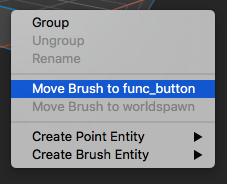
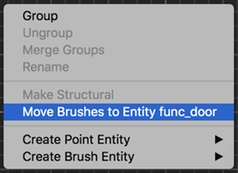
2620: Update manual for tags and new keyboard shortcuts.

diff --git a/app/resources/documentation/manual/shortcuts.js b/app/resources/documentation/manual/shortcuts.js
@@ -190,7 +190,6 @@ keys["windows"][392] = "Numpad /";
 keys["windows"][393] = "Left Windows Key";
 keys["windows"][394] = "Right Windows Key";
 keys["windows"][395] = "Windows Menu Key";
-keys["windows"][396] = "Ctrl";
 keys["windows"]["+"] = "+";
 keys["mac"][8] = "&#x232B;";
 keys["mac"][9] = "&#x21E5;";
@@ -383,7 +382,6 @@ keys["mac"][392] = "Numpad /";
 keys["mac"][393] = "Left Windows Key";
 keys["mac"][394] = "Right Windows Key";
 keys["mac"][395] = "Windows Menu Key";
-keys["mac"][396] = "&#x2303;";
 keys["mac"]["+"] = "";
 keys["linux"][8] = "Backspace";
 keys["linux"][9] = "Tab";
@@ -576,7 +574,6 @@ keys["linux"][392] = "Numpad /";
 keys["linux"][393] = "Left Windows Key";
 keys["linux"][394] = "Right Windows Key";
 keys["linux"][395] = "Windows Menu Key";
-keys["linux"][396] = "Ctrl";
 keys["linux"]["+"] = "+";
 
 var menu = {};
@@ -594,9 +591,6 @@ menu["Menu/File/Unload Portal File"] = { path: ["File", "Unload Portal File"], s
 menu["Menu/File/Reload Texture Collections"] = { path: ["File", "Reload Texture Collections"], shortcut: { key:344, modifiers: [] } };
 menu["Menu/File/Reload Entity Definitions"] = { path: ["File", "Reload Entity Definitions"], shortcut: { key:345, modifiers: [] } };
 menu["Menu/File/Close"] = { path: ["File", "Close"], shortcut: { key:87, modifiers: [308] } };
-menu["Menu/File/About TrenchBroom"] = { path: ["File", "About TrenchBroom"], shortcut: { key:0, modifiers: [] } };
-menu["Menu/File/Preferences"] = { path: ["File", "Preferences..."], shortcut: { key:44, modifiers: [308] } };
-menu["Menu/File/Exit"] = { path: ["File", "Exit"], shortcut: { key:0, modifiers: [] } };
 menu["Menu/Edit/Undo"] = { path: ["Edit", "Undo"], shortcut: { key:90, modifiers: [308] } };
 menu["Menu/Edit/Redo"] = { path: ["Edit", "Redo"], shortcut: { key:90, modifiers: [306, 308] } };
 menu["Menu/Edit/Repeat"] = { path: ["Edit", "Repeat"], shortcut: { key:82, modifiers: [308] } };
@@ -606,7 +600,7 @@ menu["Menu/Edit/Copy"] = { path: ["Edit", "Copy"], shortcut: { key:67, modifiers
 menu["Menu/Edit/Paste"] = { path: ["Edit", "Paste"], shortcut: { key:86, modifiers: [308] } };
 menu["Menu/Edit/Paste at Original Position"] = { path: ["Edit", "Paste at Original Position"], shortcut: { key:86, modifiers: [307, 308] } };
 menu["Menu/Edit/Duplicate"] = { path: ["Edit", "Duplicate"], shortcut: { key:68, modifiers: [308] } };
-menu["Menu/Edit/Delete"] = { path: ["Edit", "Delete"], shortcut: { key:8, modifiers: [] } };
+menu["Menu/Edit/Delete"] = { path: ["Edit", "Delete"], shortcut: { key:127, modifiers: [] } };
 menu["Menu/Edit/Select All"] = { path: ["Edit", "Select All"], shortcut: { key:65, modifiers: [308] } };
 menu["Menu/Edit/Select Siblings"] = { path: ["Edit", "Select Siblings"], shortcut: { key:66, modifiers: [308] } };
 menu["Menu/Edit/Select Touching"] = { path: ["Edit", "Select Touching"], shortcut: { key:84, modifiers: [308] } };
@@ -629,7 +623,7 @@ menu["Menu/Edit/CSG/Subtract"] = { path: ["Edit", "CSG", "Subtract"], shortcut: 
 menu["Menu/Edit/CSG/Hollow"] = { path: ["Edit", "CSG", "Hollow"], shortcut: { key:75, modifiers: [307, 308] } };
 menu["Menu/Edit/CSG/Intersect"] = { path: ["Edit", "CSG", "Intersect"], shortcut: { key:76, modifiers: [308] } };
 menu["Menu/Edit/Snap Vertices to Integer"] = { path: ["Edit", "Snap Vertices to Integer"], shortcut: { key:86, modifiers: [306, 308] } };
-menu["Menu/Edit/Snap Vertices to Grid"] = { path: ["Edit", "Snap Vertices to Grid"], shortcut: { key:86, modifiers: [307, 306, 308] } };
+menu["Menu/Edit/Snap Vertices to Grid"] = { path: ["Edit", "Snap Vertices to Grid"], shortcut: { key:86, modifiers: [306, 307, 308] } };
 menu["Menu/Edit/Texture Lock"] = { path: ["Edit", "Texture Lock"], shortcut: { key:0, modifiers: [] } };
 menu["Menu/Edit/UV Lock"] = { path: ["Edit", "UV Lock"], shortcut: { key:85, modifiers: [] } };
 menu["Menu/Edit/Replace Texture"] = { path: ["Edit", "Replace Texture..."], shortcut: { key:0, modifiers: [] } };
@@ -662,6 +656,7 @@ menu["Menu/View/Switch to Face Inspector"] = { path: ["View", "Switch to Face In
 menu["Menu/View/Toggle Info Panel"] = { path: ["View", "Toggle Info Panel"], shortcut: { key:52, modifiers: [308] } };
 menu["Menu/View/Toggle Inspector"] = { path: ["View", "Toggle Inspector"], shortcut: { key:53, modifiers: [308] } };
 menu["Menu/View/Maximize Current View"] = { path: ["View", "Maximize Current View"], shortcut: { key:32, modifiers: [308] } };
+menu["Menu/View/Preferences"] = { path: ["View", "Preferences..."], shortcut: { key:0, modifiers: [] } };
 menu["Menu/Run/Compile"] = { path: ["Run", "Compile..."], shortcut: { key:0, modifiers: [] } };
 menu["Menu/Run/Launch"] = { path: ["Run", "Launch..."], shortcut: { key:0, modifiers: [] } };
 menu["Menu/Debug/Print Vertices"] = { path: ["Debug", "Print Vertices"], shortcut: { key:0, modifiers: [] } };
@@ -673,7 +668,8 @@ menu["Menu/Debug/Crash"] = { path: ["Debug", "Crash..."], shortcut: { key:0, mod
 menu["Menu/Debug/Throw Exception During Command"] = { path: ["Debug", "Throw Exception During Command"], shortcut: { key:0, modifiers: [] } };
 menu["Menu/Debug/Show Crash Report Dialog"] = { path: ["Debug", "Show Crash Report Dialog"], shortcut: { key:0, modifiers: [] } };
 menu["Menu/Debug/Set Window Size"] = { path: ["Debug", "Set Window Size..."], shortcut: { key:0, modifiers: [] } };
-menu["Menu/Help/TrenchBroom Manual"] = { path: ["Help", "TrenchBroom Manual"], shortcut: { key:0, modifiers: [] } };
+menu["Menu/Help/TrenchBroom Manual"] = { path: ["Help", "TrenchBroom Manual"], shortcut: { key:340, modifiers: [] } };
+menu["Menu/Help/About TrenchBroom"] = { path: ["Help", "About TrenchBroom"], shortcut: { key:0, modifiers: [] } };
 var actions = {};
 actions["Controls/Map view/Create brush"] = { key:13, modifiers: [] };
 actions["Controls/Map view/Toggle clip side"] = { key:13, modifiers: [308] };
@@ -732,6 +728,24 @@ actions["Controls/Map view/Cycle map view"] = { key:32, modifiers: [] };
 actions["Controls/Map view/Reset camera zoom"] = { key:27, modifiers: [306] };
 actions["Controls/Map view/Cancel"] = { key:27, modifiers: [] };
 actions["Controls/Map view/Deactivate current tool"] = { key:27, modifiers: [308] };
+actions["Controls/Map view/Make structural"] = { key:83, modifiers: [307] };
+actions["Controls/Map view/View Filter > Toggle show entity classnames"] = { key:0, modifiers: [] };
+actions["Controls/Map view/View Filter > Toggle show group bounds"] = { key:0, modifiers: [] };
+actions["Controls/Map view/View Filter > Toggle show brush entity bounds"] = { key:0, modifiers: [] };
+actions["Controls/Map view/View Filter > Toggle show point entity bounds"] = { key:0, modifiers: [] };
+actions["Controls/Map view/View Filter > Toggle show point entities"] = { key:0, modifiers: [] };
+actions["Controls/Map view/View Filter > Toggle show point entity models"] = { key:0, modifiers: [] };
+actions["Controls/Map view/View Filter > Toggle show brushes"] = { key:0, modifiers: [] };
+actions["Controls/Map view/View Filter > Show textures"] = { key:0, modifiers: [] };
+actions["Controls/Map view/View Filter > Hide textures"] = { key:0, modifiers: [] };
+actions["Controls/Map view/View Filter > Hide faces"] = { key:0, modifiers: [] };
+actions["Controls/Map view/View Filter > Shade faces"] = { key:0, modifiers: [] };
+actions["Controls/Map view/View Filter > Use fog"] = { key:0, modifiers: [] };
+actions["Controls/Map view/View Filter > Show edges"] = { key:0, modifiers: [] };
+actions["Controls/Map view/View Filter > Show all entity links"] = { key:0, modifiers: [] };
+actions["Controls/Map view/View Filter > Show transitively selected entity links"] = { key:0, modifiers: [] };
+actions["Controls/Map view/View Filter > Show directly selected entity links"] = { key:0, modifiers: [] };
+actions["Controls/Map view/View Filter > Hide entity links"] = { key:0, modifiers: [] };
 actions["Controls/Camera/Move forward"] = { key:87, modifiers: [] };
 actions["Controls/Camera/Move backward"] = { key:83, modifiers: [] };
 actions["Controls/Camera/Move left"] = { key:65, modifiers: [] };

diff --git a/app/resources/documentation/manual/index.md b/app/resources/documentation/manual/index.md
@@ -16,13 +16,14 @@ TrenchBroom is a level editing program for brush-based game engines such as Quak
 	- Issue browser with automatic quick fixes
 	- Run external compilers and launch game engines
 	- Point file support
+	- Portal file support
 	- Automatic backups
 	- Free and cross platform
 * **Brush Editing**
 	- Robust vertex editing with edge and face splitting and manipulating multiple vertices together
 	- Clipping tool with two and three points
 	- Scale and shear tools
-	- CSG operations: merge, subtract, intersect, hollow
+	- CSG operations: merge, subtract, hollow
 	- UV view for easy texture manipulations
 	- Precise texture lock for all brush editing operations
 	- Multiple texture collections
@@ -31,7 +32,7 @@ TrenchBroom is a level editing program for brush-based game engines such as Quak
 	- Support for FGD, ENT and DEF files for entity definitions
 	- Mod support
 	- Entity link visualization
-	- Displays 3D models in the editor
+	- Displays 3D models in the editor (supports mdl, md2, md3, bsp, dkm)
 	- Smart entity property editors
 
 ## About This Document
@@ -138,7 +139,7 @@ The sizes of the editing area, the inspector and the info bar can be changed by 
 
 The editing area is divided in two sections: The context sensitive info bar at the top and the viewports below. The info bar contains different controls depending on which tool is currently activated. You can switch between tools such as the rotate tool and the vertex tool using the toolbar buttons, the menu or with the respective keyboard shortcuts. The context sensitive controls allow you to perform certain actions that are relevant to the current tool such as setting the rotation center when in the rotate tool or moving objects by a given delta when in the default move tool. Additonally, there is a button labeled "View" on the right of the info bar. Clicking on this button unfolds a dropdown containing controls to [filter out](#filtering_rendering_options) certain objects in the viewports or to change how the viewport [renders its contents](#filtering_rendering_options).
 
-![The info bar with view dropdown (Windows 7)](images/ViewDropdown.png)
+![The info bar with view dropdown (Windows 10)](images/ViewDropdown.png)
 
 There are two types of viewports: 3D viewports and 2D viewports. TrenchBroom gives you some control over the layout of the viewports: You can have one, two, three, or four viewports. See section [View Layout and Rendering](#view_layout_and_rendering) to find out how to change the layout of the viewports. If you have fewer than four viewports, then one of the viewports can be cycled by hitting #action(Controls/Map view/Cycle map view). Which of the viewports can be cycled and the order of cycling the viewports is given in the following table:
 
@@ -406,11 +407,11 @@ It is not possible to modify or remove points after they have been placed, excep
 
 ### Creating Entities {#creating_entities}
 
-There are two types of entities: point entities and brush entities, and it depends on the type how an entity is created. In the following sections, we present two ways of creating point entities and one way to create brush entities.
+There are two types of entities: point entities and brush entities, and it depends on the type how an entity is created. In the following sections, we present three ways of creating point entities and two ways to create brush entities.
 
 #### Point Entities
 
-There are two ways of creating new point entities. Firstly, you can drop new entities in the 3D and 2D viewports by using the context menu. To open the context menu, right click into the viewport. To create a point entity such as a pickup weapon or a monster, open the "Create Point Entity" sub menu and select the correct entity definition from the sub menus.
+There are three ways of creating new point entities. Firstly, you can drop new entities in the 3D and 2D viewports by using the context menu. To open the context menu, right click into the viewport. To create a point entity such as a pickup weapon or a monster, open the "Create Point Entity" sub menu and select the correct entity definition from the sub menus.
 
 ![Dropping an entity with the context menu (Mac OS X)](images/CreateEntityContextMenu.png)
 
@@ -422,9 +423,13 @@ The leftmost dropdown list allows you to change the sort order. Entities can be 
 
 To create a new entity, simply drag it out of the browser and onto the 3D or a 2D viewport. If you drag it onto the 3D viewport, the entity will be positioned on the brush under the mouse, with its bounding box snapped to the grid. If you drag the entity onto a 2D viewport, its position is determined by the far end of the most recently selected object.
 
+Finally, you can create specific entities by assigning a keyboard shorcut in the [preferences](##keyboard_shortcuts). This is useful for entities that are used very often such as lights. The entity will be created under the mouse cursor; its position will be computed in the same way as if the context menu was used.
+
 #### Brush Entities
 
-![Moving brushes to brush entities](images/MoveBrushesToEntity.png) Creating brush entities is also done using the context menu. Select a couple of brushes and right click on them, then select the desired brush entity from the menu. To move brushes from one brush entity to another, select the brushes you wish to move and right click on a brush belonging to the brush entity to which you want to move the brushes, and select "Move brushes to ENTITY", where "ENTITY" is the name of the target brush entity, for example "func_button" in the picture on the left. If the brush entity containing the brushes to be moved becomes empty, it will be automatically deleted. To move brushes from a brush entity back into the world, select the brushes and right click on a world brush or on the void and select "Move brushes to World".
+![Moving brushes to brush entities](images/MoveBrushesToEntity.png) Creating brush entities is also done using the context menu. Select a couple of brushes and right click on them, then select the desired brush entity from the menu. To move brushes from one brush entity to another, select the brushes you wish to move and right click on a brush belonging to the brush entity to which you want to move the brushes, and select "Move brushes to Entity ENTITY", where "ENTITY" is the name of the target brush entity, for example "func_door" in the picture on the left. If the brush entity containing the brushes to be moved becomes empty, it will be automatically deleted. To move brushes from a brush entity back into the world, select the brushes, right click and select "Make Structural".
+
+Additionally, you can also assign a keyboard shorcut to create a specific brush entity in the [preferences](##keyboard_shortcuts).
 
 Often, it is much quicker to create new objects by duplicating existing ones. Objects can be duplicated using dedicated functions in TrenchBroom, or just by copying and pasting them.
 
@@ -789,6 +794,32 @@ In each of the CSG operations, new brushes are created, and TrenchBroom has to a
 
 In the example above, a brush is subtracted from another brush to form an archway. The subtrahend has a blue brick texture and the minuend has a dark metal texture. After the subtraction, those faces of the result that line up with the faces of the subtrahend have also been assigned the blue brick texture, while those faces that line up with the faces of the minuend brush have been assigned the dark metal texture. Some of the faces of the result brushes are invisible because they are shared by other brushes - these faces have been assigned the current texture because no face of the subtrahend or the minuend lines up with them.
 
+## Special Brush and Face Types {#special_brush_face_types}
+
+Most Quake based games have certain special types of brushes and faces. An example for a special brush type is a *trigger brush* that activates some game logic. A special face type may be a face textured with a special _clip_ texture that is invisible, but blocks the player from passing it. In Quake 3, _caulk_ faces are often used to tell the bsp compiler to skip certain faces because they are invisible.
+
+TrenchBroom is aware of these special brush and face types as long as they are configured in the [game configuration file](#game_configuration_files) for a game. Special brush or face types can be detected by TrenchBroom in the following ways:
+
+* **Brush Types**
+	- **Entity Classname Pattern** If a brush is contained in an entity whose classname matches a certain pattern, it will receive the special brush type (example: trigger brushes).
+* **Face Types**
+	- **Texture Name Pattern** If a brush face has a texture whose name matches a certain pattern, it will receive the special face type (example: clip textures).
+	- **Content Flags** If a brush has one of several content flags, it will receive the special face type.
+	- **Surface Flags** If a brush has one of several surface flags, it will receive the special face type.
+	- **Surface Parm** If a brush has a specific surface parameter, it will receive the special face type.
+
+TrenchBroom allows you to filter for special brush and face types in the [filtering and rendering options](#filtering_rendering_options). Furthermore, you can assign a keyboard shortcut to set or unset a special brush type (if supported). The following special brush and face types can be set / unset in this way:
+
+* **Brush Types**
+	- **Entity Classname Pattern** Can be set and unset. Setting a brush type wraps the selected brushes in a newly created entity with a classname that matches the pattern. If more than one classnames in the currently loaded entity definitions matches the pattern, a dropdown menu is shown to allow you to choose one of the options. Unsetting a brush type simply moves the selected brushes into the world.
+* **Face Types**
+	- **Texture Name Pattern** Can be set only. Setting a face type sets a texture whose name matches the pattern on the selected faces. If more than one texture in the currently loaded texture collections matches the pattern, a dropdown menu is shown to allow you to choose one of the options.
+	- **Content Flags** Can be set and unset. Setting a face type sets one of the configured content flags on the selected faces. If more than one content flag was configured, a dropdown menu is shown to allow you to choose one of the options. Unsetting clears all of the configured content flags.
+	- **Surface Flags** Can be set and unset. Setting a face type sets one of the configured surface flags on the selected faces. If more than one surface flag was configured, a dropdown menu is shown to allow you to choose one of the options. Unsetting clears all of the configured surface flags.
+	- **Surface Parm** Can neither be set nor unset.
+
+Finally, every special brush or face type that supports unsetting can be cleared using the *Make Structural* command #action(Controls/Map view/Make structural).
+
 ## Working with Textures {#working_with_textures}
 
 There are two aspects to working with textures in a level editor. [Texture management](#texture_management) and texture application. This section deals with the latter, so you will learn different ways to apply textures to brush faces and to manipulate their alignment to the faces. But before we dive into that, we have to cover three general topics: First, we present the texture browser, then we explain how TrenchBroom assigns textures to newly created brush faces, and finally we discuss different texture projection modes in TrenchBroom.
@@ -957,9 +988,17 @@ If you are working on large maps, it can become cumbersome to manage the objects
 
 To filter out certain types of objects, you can open the view dropdown window by clicking on the "View" button at the right of the info bar above the editing area.
 
-![The info bar with view dropdown (Windows 7)](images/ViewDropdown.png)
+![The info bar with view dropdown (Windows 10)](images/ViewDropdown.png)
 
-In the left of the view dropdown, there is a list of checkboxes that allows you to hide all entities that share the same entity definition (i.e., the same classname). Uncheck an entity definition (or a group thereof) to hide the respective entities. For quickly hiding and showing all entities, you can click on the two buttons below the list. The right half of the view dropdown contains some options for the renderer, most of which are self explanatory.
+In the left of the view dropdown, there is a list of checkboxes that allows you to hide all entities that share the same entity definition (i.e., the same classname). Uncheck an entity definition (or a group thereof) to hide the respective entities. For quickly hiding and showing all entities, you can click on the two buttons below the list. 
+
+The right half of the view dropdown has several options, partitioned into three groups.
+
+* **Entities** - here you can configure how entities are rendered in the editor.
+* **Brushes** - allows you to toggle on or off certain special brush or face types. These types are game specific and are read from the [game configuration file](#game_configuration_files).
+* **Renderer** - various options on how other objects are rendered.
+
+Note that it is possible to add keyboard shortcuts to toggle every option in the view dropdown in the [preferences](#keyboard_shortcuts).
 
 ## Hiding and Isolation
 
@@ -1046,11 +1085,21 @@ Mouse Pan 	Sensitivity and axis inversion for mouse panning (middle click and dr
 Mouse Move 	Sensitivity and settings for moving the camera with the mouse. If you use a tablet, the setting "Alt+MMB drag to move camera" might make navigation easier for you.
 Move Keys 	Keyboard shortcuts for moving around in the map, with a separate slider to control the speed.
 
-## Keyboard Shortcuts
+## Keyboard Shortcuts {#keyboard_shortcuts}
 
 ![Keyboard Configuration Dialog (Linux XFCE)](images/KeyboardPreferences.png)
 
 In this preference pane, you can change the keybaord shortcuts used in TrenchBroom. The table lists all available shortcuts, their context, and the description. To change a keyboard shortcut, click twice (do not double click) on the shortcut in the first column of the table and enter the new shortcut. The context determines when this shortcut is available, for example, the PgDn key triggers different actions depending on whether the rotate tool is active or not. Finally, the desription column explains what a shortcut does in a particular context. Sometimes a shortcut triggers different actions depending on whether the viewport in which it was used is a 3D or a 2D viewport. For example, the PgDn key can move objects backward (away from the camera) in a 2D viewport or down along the Z axis in the 3D viewport. These different actions are listed together in the description column, but they are separated with a semicolon.
+
+If you open the preference dialog when a map is currently opened, the list of shortcuts will contain additional entries depending on the loaded entity configuration file and the game configuration file. For each entity and special brush or face types, the following keyboard shortcuts are available.
+
+* **Entity**
+	- `View Filter > Toggle CLASSNAME visible` to toggle entities with this classname visible and invisible ([more info](filtering_rendering_options))
+	- `Create CLASSNAME` to create entities with this classname ([more info](#creating_entities))
+* **Brush / Face Type**
+	- `View Filter > Toggle TYPE visible` to toggle brushes or faces with this type visible and invisible ([more info](filtering_rendering_options))
+	- `Turn selection into TYPE` to set this type to the selected brushes or faces
+	- `Turn selection into non-TYPE` to unset this type from the selected brushes or faces
 
 Note that if you assign a keyboard shortcut to different actions in the same context, the shortcut creates a conflict and you cannot exit the preference pane or close the dialog until you resolve the conflict. Conflicting shortcuts are highlighted in red.
 
@@ -1151,7 +1200,7 @@ Once the compilation is done, you can launch a game engine and check out your ma
 
 ## Launching Game Engines {#launching_game_engines}
 
-Before you can launch a game engine in TrenchBroom, you have to make your engine(s) known to TrenchBroom. You can do this by bringing up the game engine profile dialog either from the launch dialog (see below) or from the [game configuration]({#game_configuration).
+Before you can launch a game engine in TrenchBroom, you have to make your engine(s) known to TrenchBroom. You can do this by bringing up the game engine profile dialog either from the launch dialog (see below) or from the [game configuration](#game_configuration).
 
 There are two ways to launch a game engine from within TrenchBroom. Either click the 'Launch' button in the compilation dialog or choose #menu(Menu/Run/Launch). This brings up the launch dialog shown in the following screenshot.
 
@@ -1622,7 +1671,7 @@ The case operator allows for conditional evaluation of expressions. This is usal
 
      Case = SimpleTerm "->" Expression
 
-In a case expression, the part before the `->` operator is called the *premise* and the part after it is called the *conclusion*. The case operator is evaluated as follows:
+In a case expression, the part before the `->` operator is called the _premise_ and the part after it is called the _conclusion_. The case operator is evaluated as follows:
 
 - If the premise evaluates to a value `r` that is convertible to `boolean`:
     - If `r` converts to `true`: 
@@ -1899,7 +1948,7 @@ An example from an FGD file might look as follows.
 	    ]
 	]
 
-To improve compatibility to other editors, the model definition can also be named *studio* or *studioprop* in FGD files.
+To improve compatibility to other editors, the model definition can also be named _studio_ or _studioprop_ in FGD files.
 
 In an ENT file, the same model specification might look like this.
 
@@ -1915,7 +1964,7 @@ TrenchBroom can load point files (PTS) generated by QBSP, which help locate leak
 
 Portal files (PRT), also generated by QBSP, let you visualize the portals between BSP leafs. They can be loaded with #menu(Menu/File/Load Portal File) and are rendered as translucent red polygons.
 
-## Game Configuration Files
+## Game Configuration Files {#game_configuration_files}
 
 TrenchBroom uses game configuration files to provide support for different games. Some game configuration files come with the editor. They are installed at `<ResourcePath>/games`, where the value of `<ResourcePath>` depends on the platform according to the following table.
 
@@ -2024,7 +2073,30 @@ The game configuration is an [expression language](#expression_language) map wit
 	    }
     }
 
+#### Versions
 
+The game configuration files are versioned. Whenever a breaking change to the game configuration format is introduced, the version number will increase and TrenchBroom will reject the old format with an error message. The following sections will explain how to migrate a game configuration file for each version change.
+
+**Migrating to Version 3** 
+
+Version 3 deprecates the `brushtypes` key in favor of the `tags` key, but the contents are very similar. The value of the `brushtypes` key is an array of type matchers. The following brush type matchers are supported in version 2:
+
+Match        Description
+-----        -----------
+texture      Match against a texture name, must match all brush faces
+contentflag  Match against face content flags (used by Quake 2, Quake 3)
+surfaceflag  Match against face surface flags (used by Quake 2, Quake 3)
+surfaceparm  Match against shader surface parameters (used by Quake 3)
+classname    Match against a brush entity class name
+
+In version 3, the `tags` key is a map with two possible keys: `brush` and `brushface`. For both keys, the value is again an array of type matchers. The `brush` key supports the `classname` matcher and the `brushface` key supports the `texture`, `contentflag`, `surfaceflag` and `surfaceparm` matchers. To migrate the `brushtypes` key to the `tags` key, you create the basic structure as follows:
+
+    "tags": {
+        "brush": [ ... ],
+        "brushface": [ ... ]
+    }
+
+Then you need to copy your `classname` matchers into the array value of the `brush` key and all other matchers into the array of the `brushface` key. Finally, you can delete your `brushtypes` key. See the [tags](#game_configuration_files_tags) section for more information.
 
 #### File Formats
 
@@ -2032,12 +2104,12 @@ The file format is specified by an array of maps under the key `fileformats`. Th
 
 Format      	 Description
 ------      	 -----------
-Standard     	Standard Quake map file
-Valve       	Valve map file (like Standard, but with different texture info per face)
-Quake2       	Quake 2 map file
-Quake3       	Quake 3 map file (with brush primitives)
-Quake3 (legacy) Quake 3 map file (without brush primitives)
-Hexen2       	Hexen 2 map file (like Quake, but with an additional, but unused value per face)
+Standard     	 Standard Quake map file
+Valve       	 Valve map file (like Standard, but with different texture info per face)
+Quake2       	 Quake 2 map file
+Quake3       	 Quake 3 map file (with brush primitives)
+Quake3 (legacy)  Quake 3 map file (without brush primitives)
+Hexen2       	 Hexen 2 map file (like Quake, but with an additional, but unused value per face)
 
 Each entry of the array must have the following structure:
 
@@ -2132,12 +2204,13 @@ Format       Description
 ------       -----------
 mdl          Quake model format
 md2          Quake 2 model format
+md3          Quake 3 model format
 bsp        	 Compiled brush model, used by Quake and Hexen 2
 dkm          Daikatana model format
 
-#### Tags
+#### Tags {#game_configuration_files_tags}
 
-TrenchBroom can recognize certain special objects or special brush faces. An example would be clip faces or trigger brushes. But since the details can be game dependent, these special objects and faces are defined in the game configuration. For greater flexibility and future enhancements, a general tagging system is used to realize this functionality. Thereby, the game configuration defines smart tags which are applied automatically to brushes or brush faces depending on certain conditions.
+TrenchBroom can recognize certain special brush or face types. An example would be clip faces or trigger brushes. But since the details can be game dependent, these special types are defined in the game configuration. For greater flexibility and future enhancements, a general tagging system is used to realize this functionality. Thereby, the game configuration defines smart tags which are applied automatically to brushes or brush faces depending on certain conditions.
 
 The tags are specified separately for brushes and faces under the corresponding keys:
 
@@ -2171,6 +2244,7 @@ Depending on the value of the `match` key, additional keys may be required to co
 * For the `contentflag` and `surfaceflag` matchers, the key `flags` contains a list of content or surface flag names to match against (see below for more info on content and surface flags).
 * For the `surfaceparm` matcher, the key `pattern` contains a pattern that is matched against the surface parameters. Wildcards `*` and `?` are allowed. Use backslashes to escape literal `*` and `?` chars.
 * For the `classname` matcher, key `pattern` contains a pattern that is matched against the classname of the brush entity that contains the brush. Wildcards `*` and `?` are allowed. Use backslashes to escape literal `*` and `?` chars.
+	- Additionally, the `classname` matcher can contain an optional `texture` key - when this type is set by the user, then the selected brushes will receive the texture with the name given as the value of this key (e.g. `"texture": "trigger"` will assign the `trigger` texture).
 
 #### Face Attributes
 
